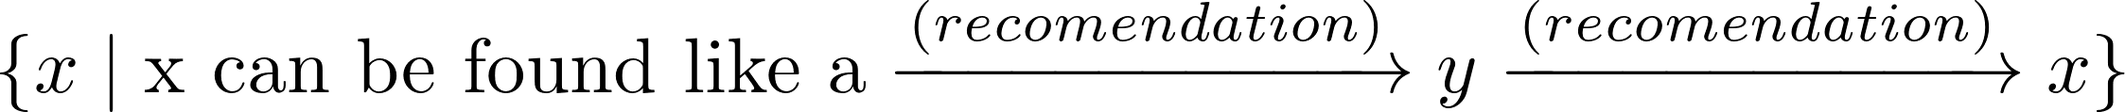
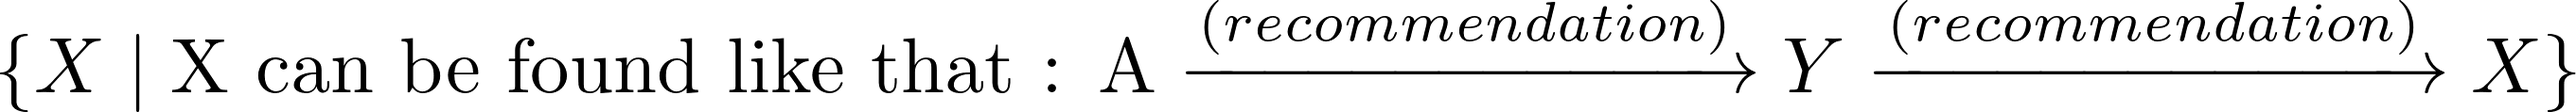
updated pic and readme

diff --git a/README.md b/README.md
@@ -1,6 +1,6 @@
 ## Description (fall 2015 actual)
 
-I'd found that kinopoisk second-and-more level recomendations was usefull for me (example for all second level recomendations for film **a** 
+I'd found that kinopoisk second-and-more level recomendations was usefull for me (example for all second level recomendations for film **A** 
 
  ![Image of a description](res/pic.png)
 
